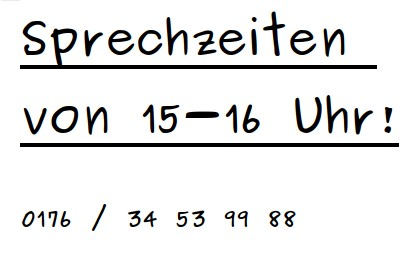
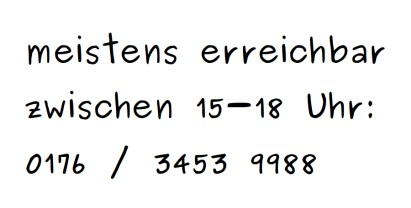
xxx

diff --git a/kontakt.html b/kontakt.html
@@ -39,15 +39,12 @@
   <div class="container">
     <div class="row">
       <div class="col-md-6">
-        <h3 class="black-box">Sprechzeiten</h3>
+        <h3 class="black-box">Telefon</h3>
         <p class="lead mb-0">
           <img class="img-fluid " src="/img/p.jpg" alt=""><br>
           Micha Barthel
           <br><br>
-        <h3 class="black-box">Diziplin und Pünktlichkeit</h3>
-          17 Uhr bedeutet nicht 17:10 Uhr!
 
-          <br><br>
           <h3 class="black-box">Preise</h3>
           29,75€* pro Stunde<br><br>
           *[25€ für mich + 4,75€ (19%) Mwst. für das Finanzamt]
